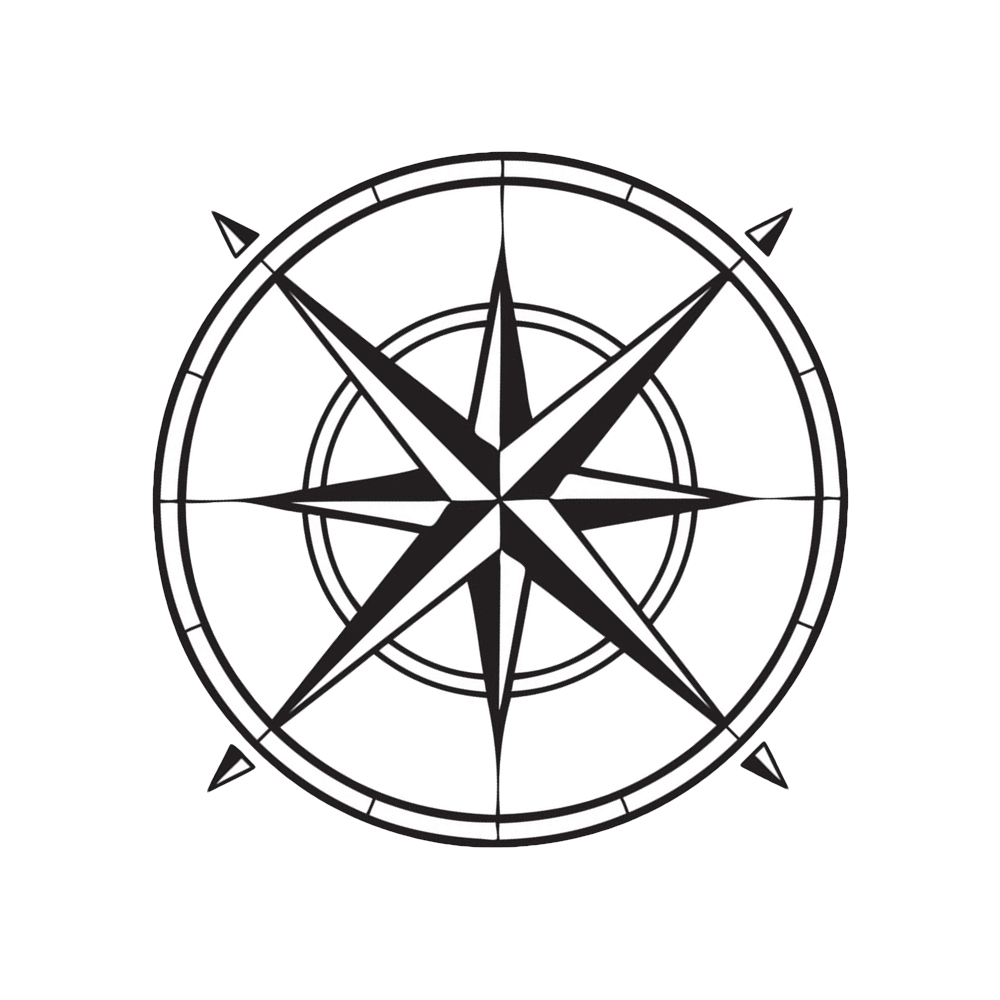
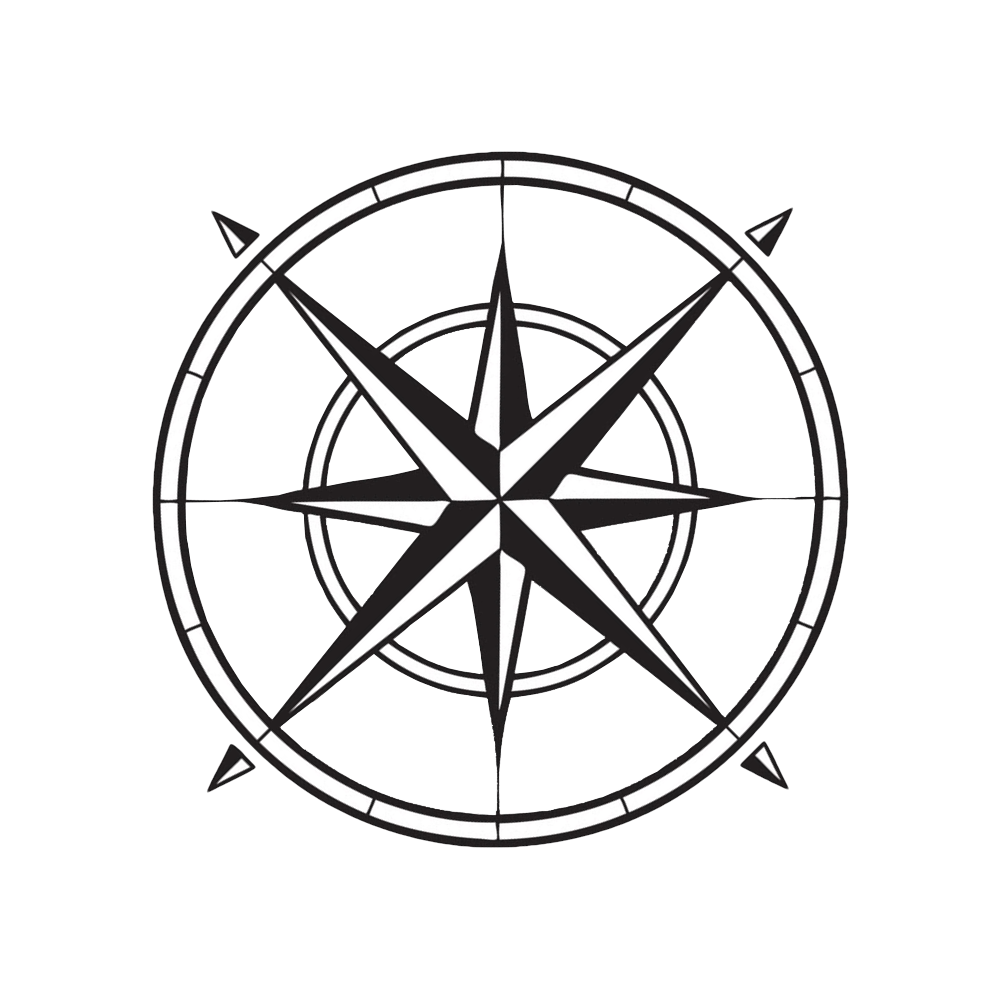
cleaned up bgimage

Changed region(s): [[0.775, 0.496, 0.806, 0.527]]

diff --git a/index.html b/index.html
@@ -1,10 +1,10 @@
 <!--  
 [!!]  Make a button with a clear background, white text, that on hover inverts the text and background 
-[  ]  Smooth out the compass image
+[!!]  Smooth out the compass image
 [  ]  Get clear social media icons (like in the example sent)
 [  ]  Control page height
 [  ]  Make design responsive 
-[  ]  Determine functionality/text of the 'find out more' button
+[  ]  Link 'Find out More' to a form of sorts
 -->
 
 <!DOCTYPE html>
@@ -55,7 +55,7 @@
 				</div>
 			</div>
 			<div class="row">
-				<a href="http://josephanda.github.io/">
+				<a href="http://josephanda.github.io/whatsHap">
 					<div class="signUp">Find out more</div>
 				</a>
 			</div>
